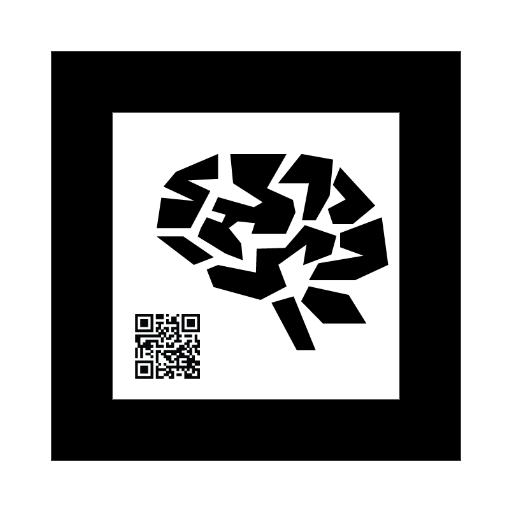
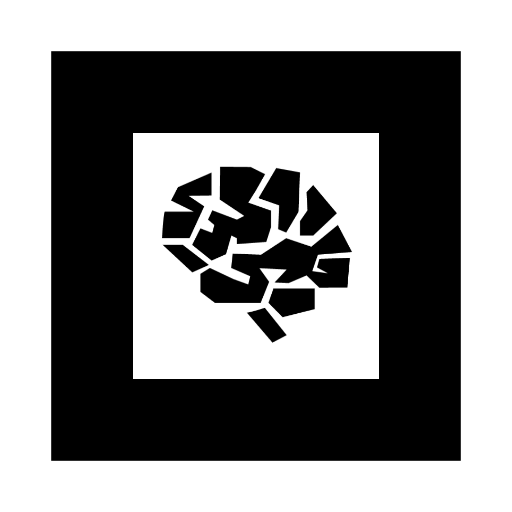
temporary solution for custom marker

Changed region(s): [[0.2188, 0.2188, 0.7812, 0.7812]]

diff --git a/app/api/utils.py b/app/api/utils.py
@@ -18,7 +18,7 @@ def create_qr_from_text(text):
     qr = qrcode.QRCode(
      version=1,
      error_correction=qrcode.constants.ERROR_CORRECT_L,
-     box_size=3,
+     box_size=2,
      border=2,
     )
     qr.add_data(text)
@@ -40,7 +40,7 @@ def put_qr_on_marker(text, marker_in):
 
     #hard-coded position:
     new_im.paste(img, (0, 0))
-    new_im.paste(qr_img, (20 +  qr_img.size[0], 295))
+    new_im.paste(qr_img, (70 +  qr_img.size[0], 313))
 
     buffered = BytesIO()
     new_im.save(buffered, format = "png")
